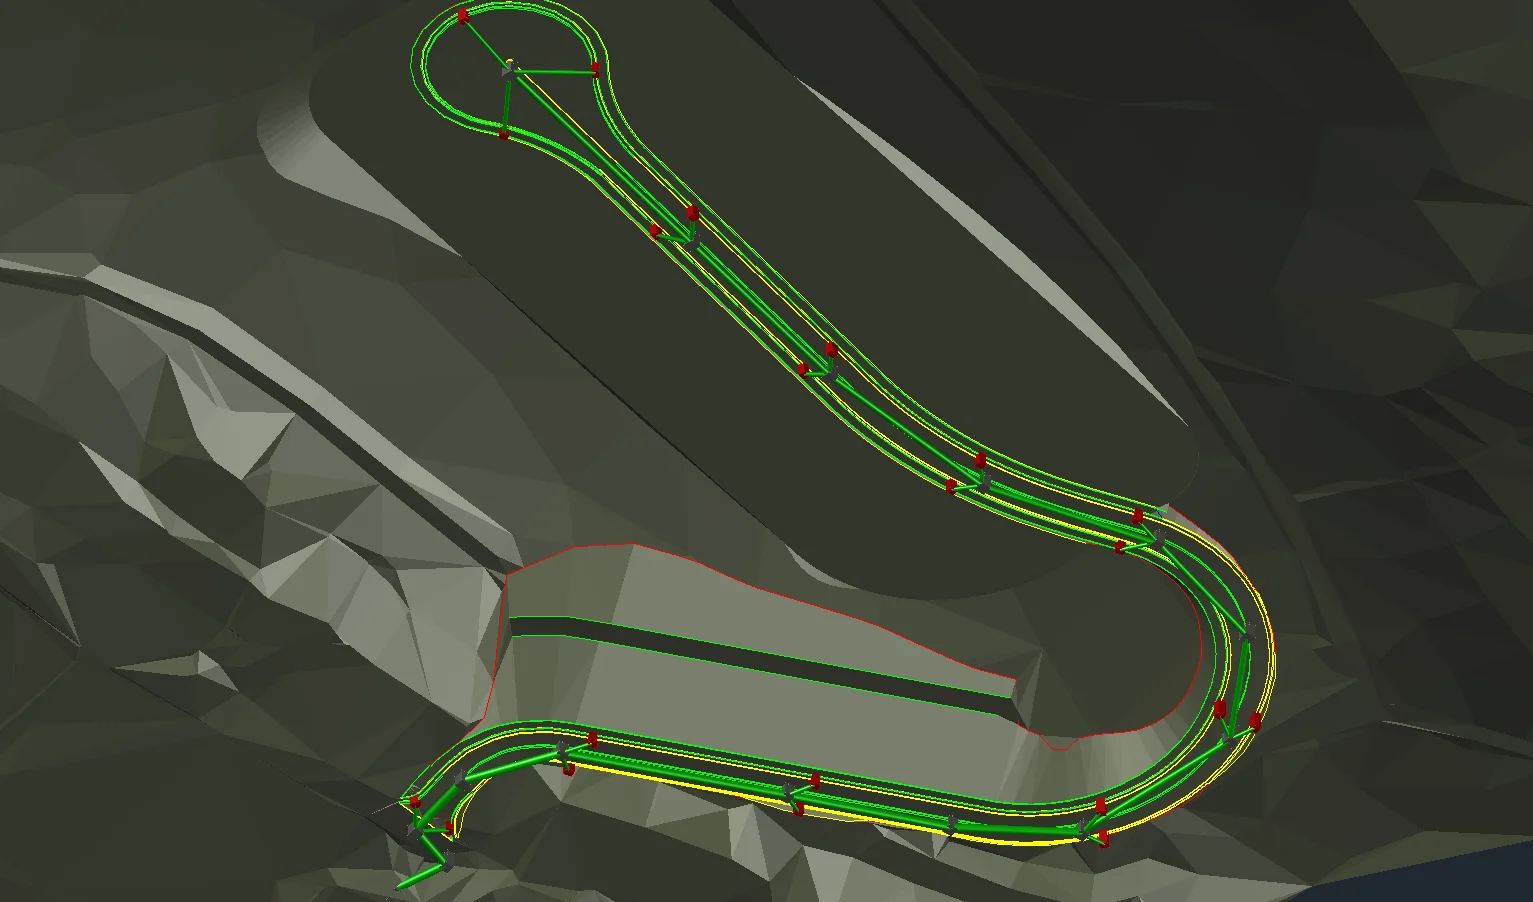
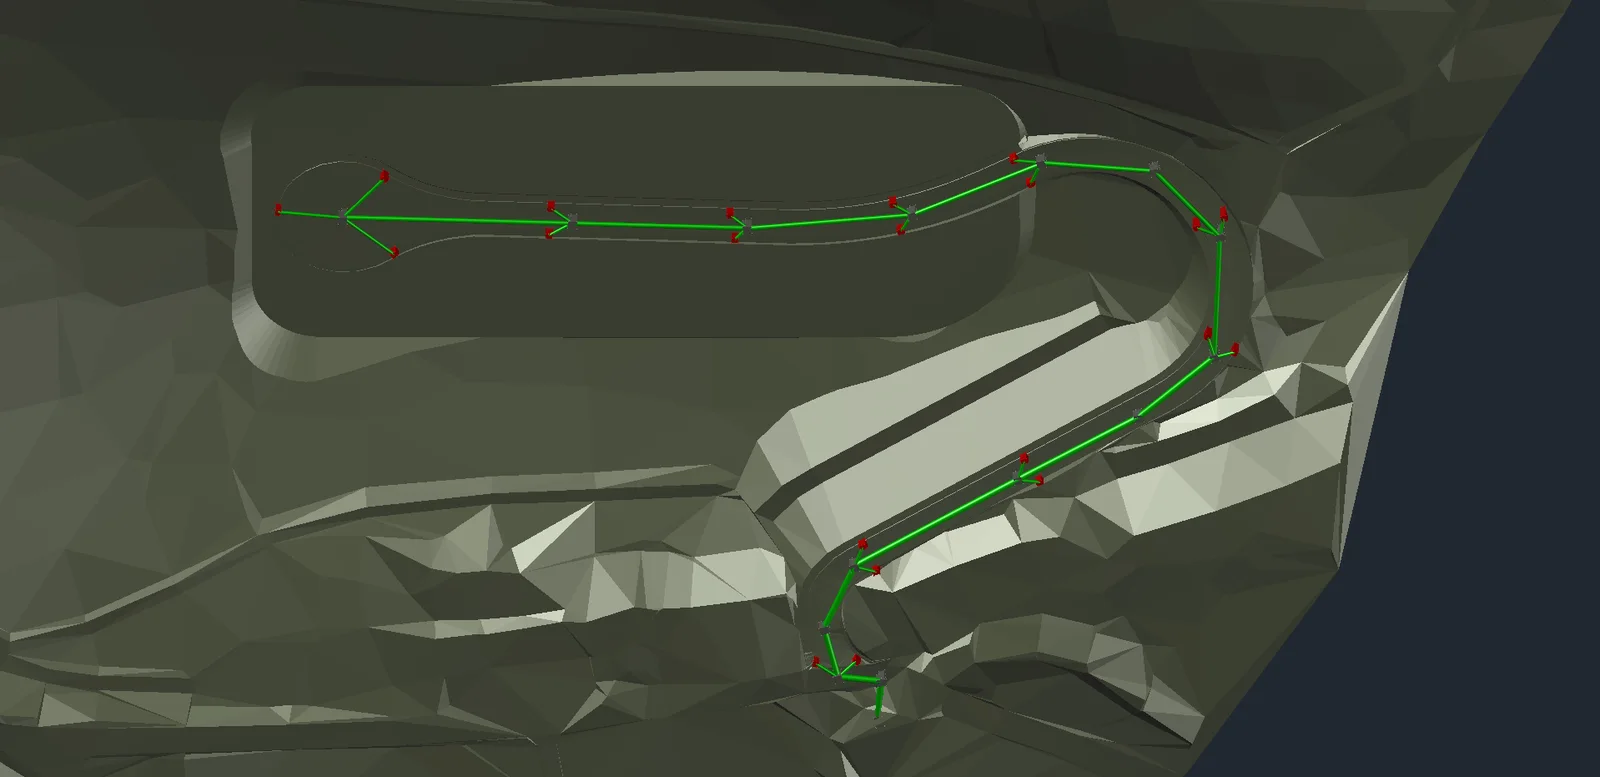
Trocar imagem do projeto de drenagem
Claude-Session: https://claude.ai/code/session_01NM7aCnNkHAb9U8nFxn8y4W

diff --git a/index.html b/index.html
@@ -281,7 +281,7 @@ footer .wrap { display: flex; flex-wrap: wrap; justify-content: space-between; g
           <div class="body"><h3>Acesso viário em desnível com viaduto</h3><p class="meta">Terraplenagem</p><p>Terraplenagem dos ramos de acesso e da transposição da ferrovia por viaduto, com definição de cortes, aterros e taludes ao longo do traçado.</p></div>
         </article>
         <article class="proj">
-          <a href="img/proj-drenagem.webp" target="_blank" rel="noopener"><img src="img/proj-drenagem.webp" alt="Modelo 3D da rede de drenagem pluvial ao longo de via com retorno" width="1533" height="902" loading="lazy"></a>
+          <a href="img/proj-drenagem.webp" target="_blank" rel="noopener"><img src="img/proj-drenagem.webp" alt="Modelo 3D da rede de drenagem pluvial ao longo de via com retorno" width="1600" height="777" loading="lazy"></a>
           <div class="body"><h3>Rede de drenagem pluvial em modelo 3D</h3><p class="meta">Drenagem pluvial · BIM</p><p>Rede de drenagem pluvial modelada em 3D ao longo de via com retorno, com tubulações, poços de visita e caixas de captação compatibilizados com o greide e a superfície do terreno.</p></div>
         </article>
         <article class="proj">
